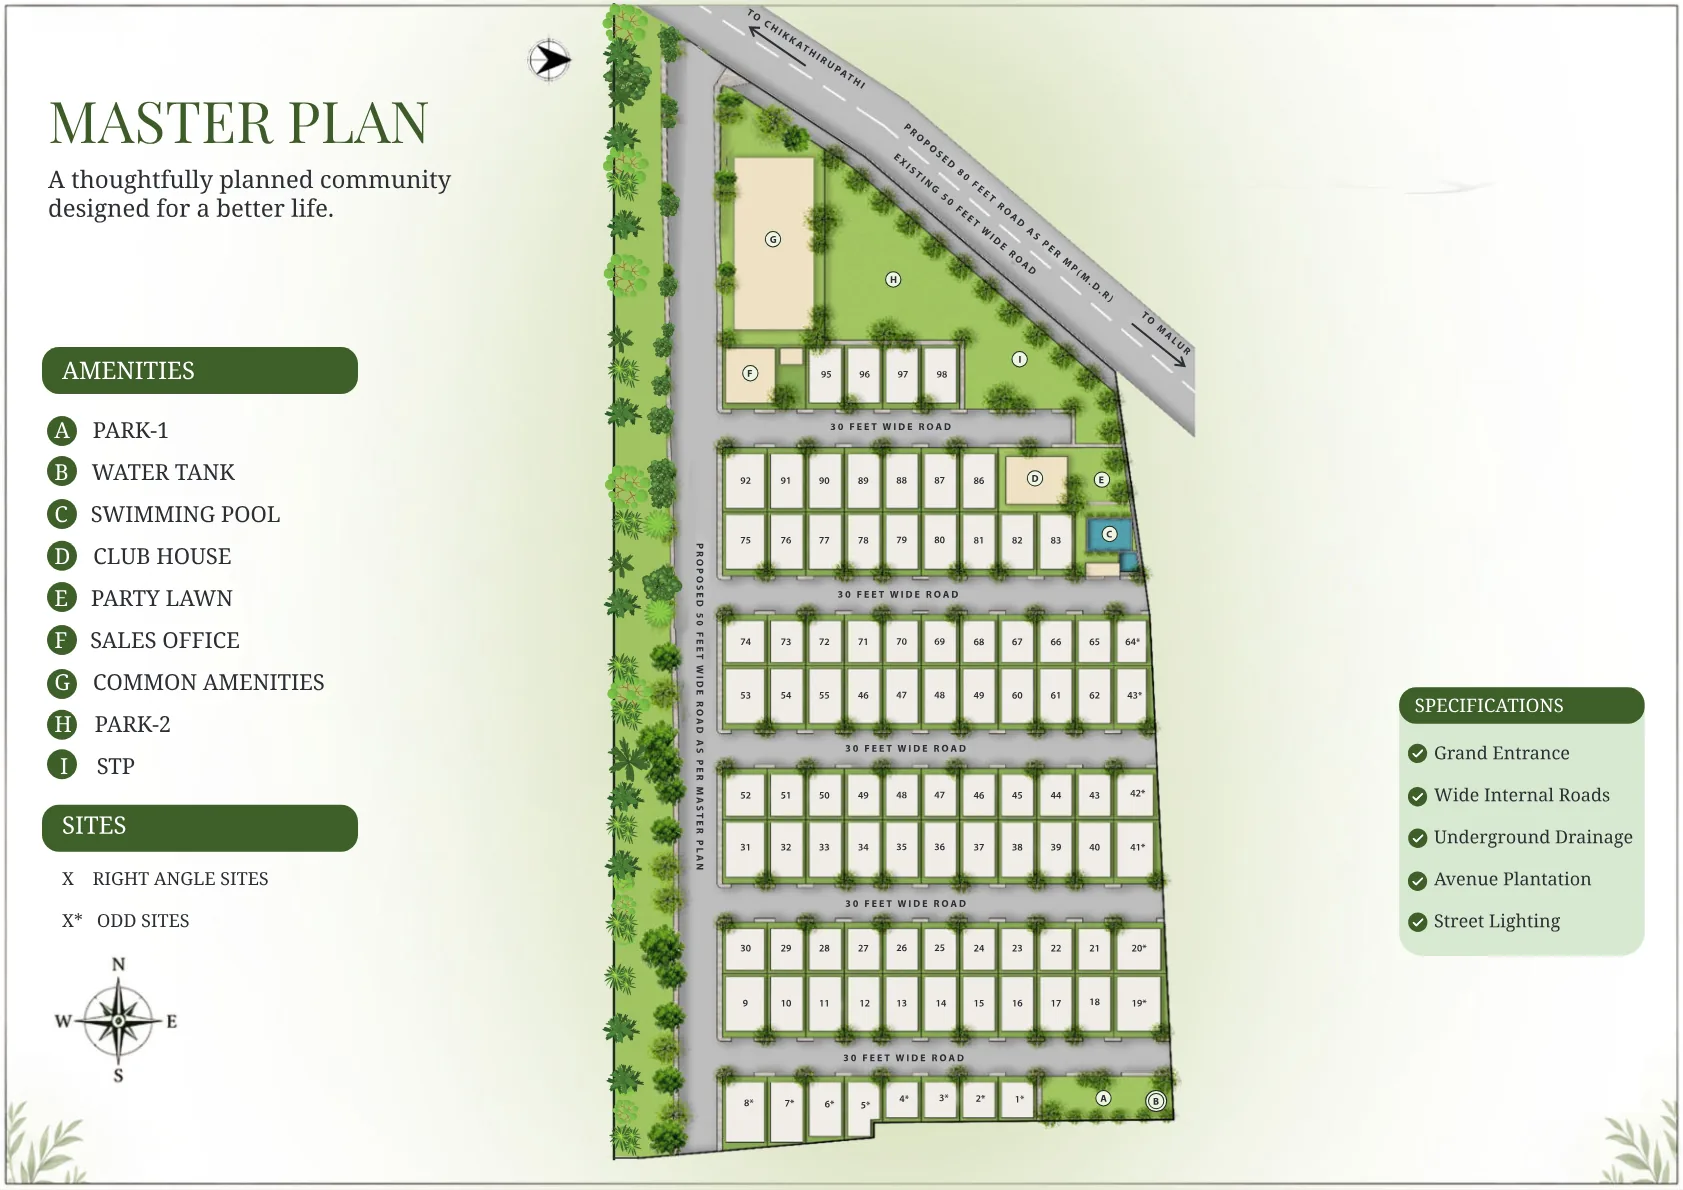
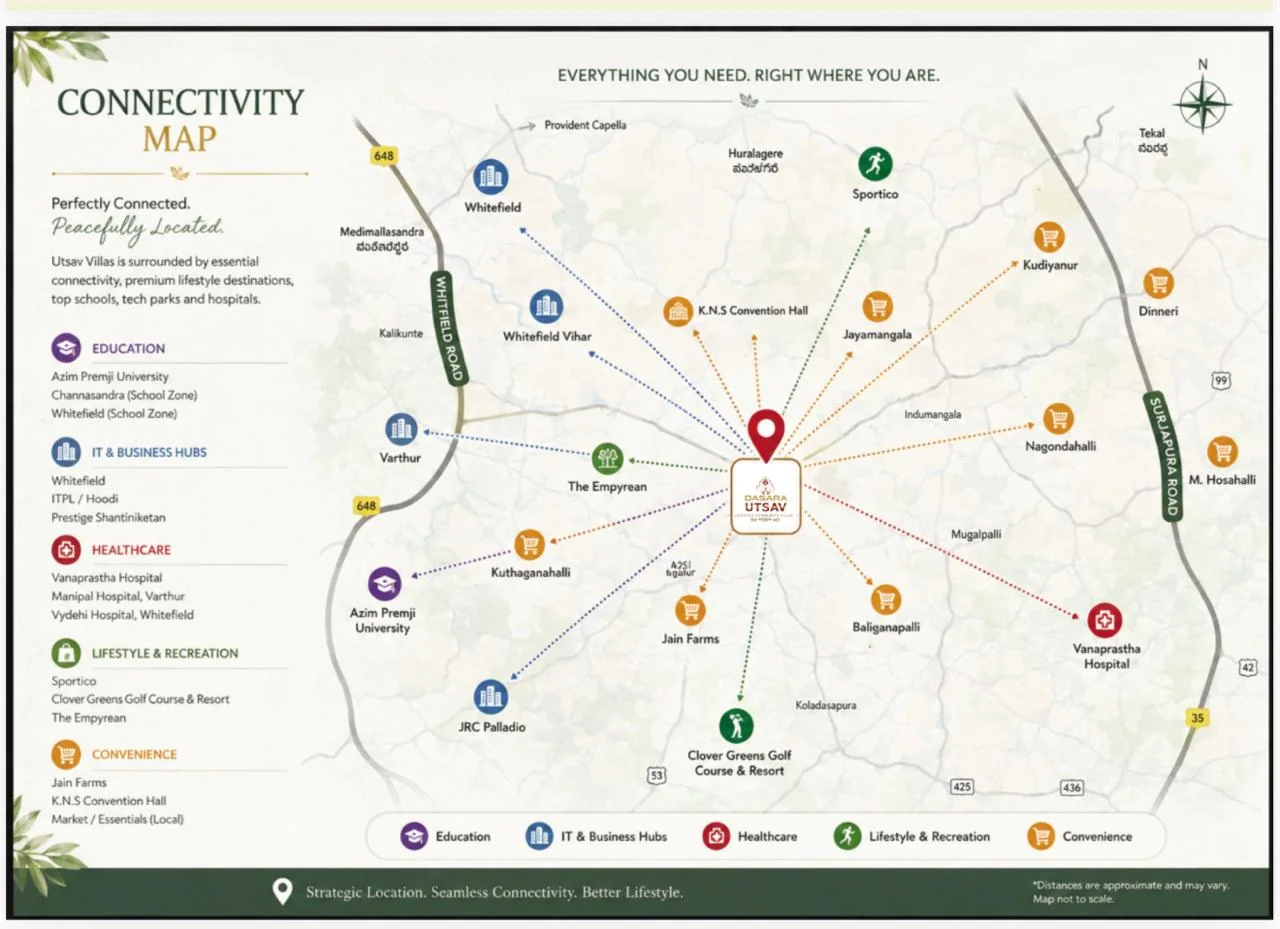
Replace the Utsav master plan graphic with the new connectivity map.

diff --git a/src/app/projects/utsav/page.tsx b/src/app/projects/utsav/page.tsx
@@ -69,7 +69,7 @@ export default function UtsavPage() {
           <div className="relative aspect-4/3 overflow-hidden bg-cream">
             <Photo
               src={utsav.masterPlan.image}
-              alt="Master plan"
+              alt="Dasara Utsav connectivity map"
               fill
               className="object-contain p-3"
               sizes="(min-width: 1024px) 45vw, 100vw"
